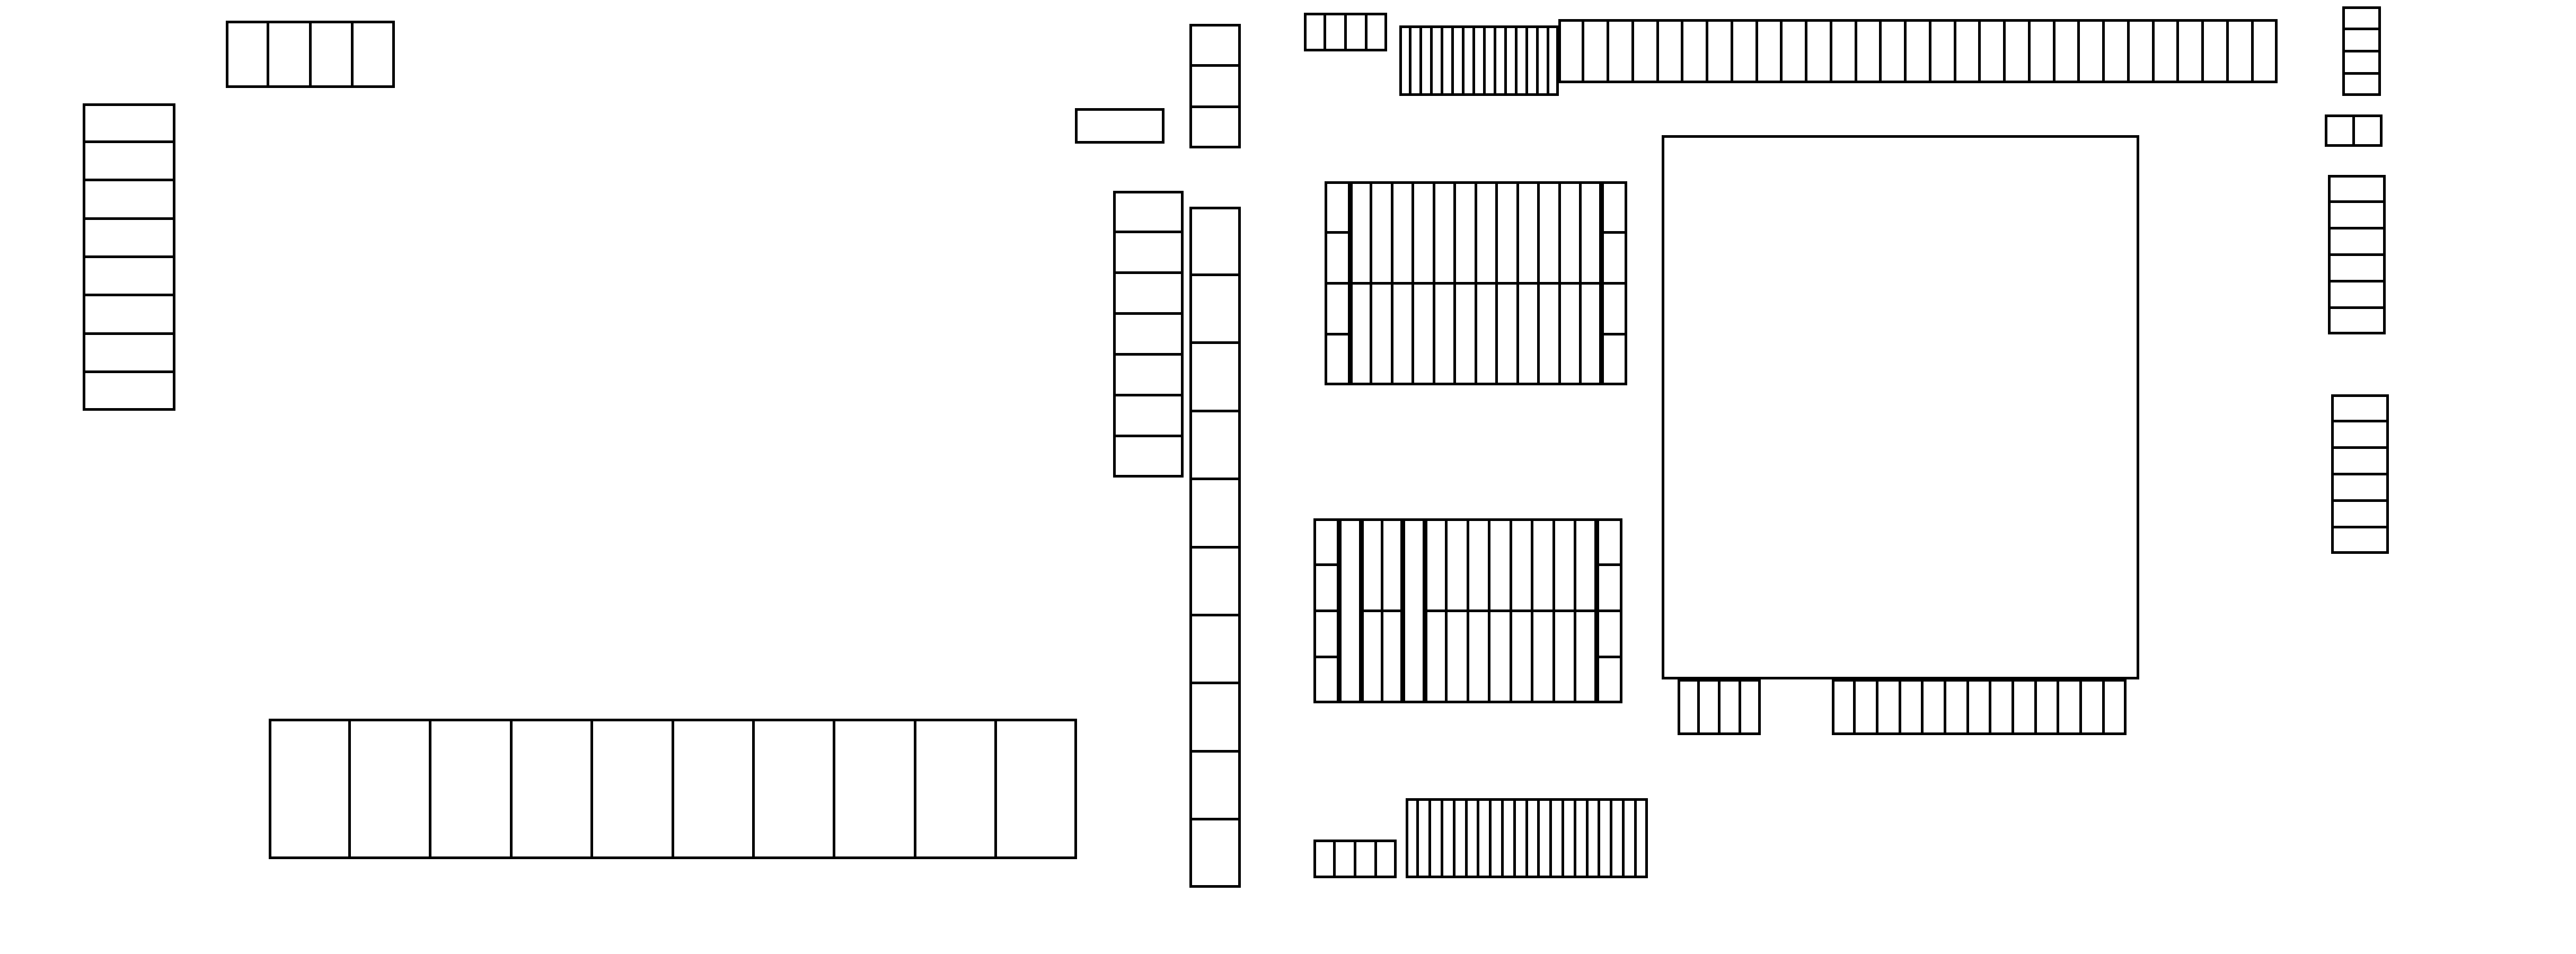
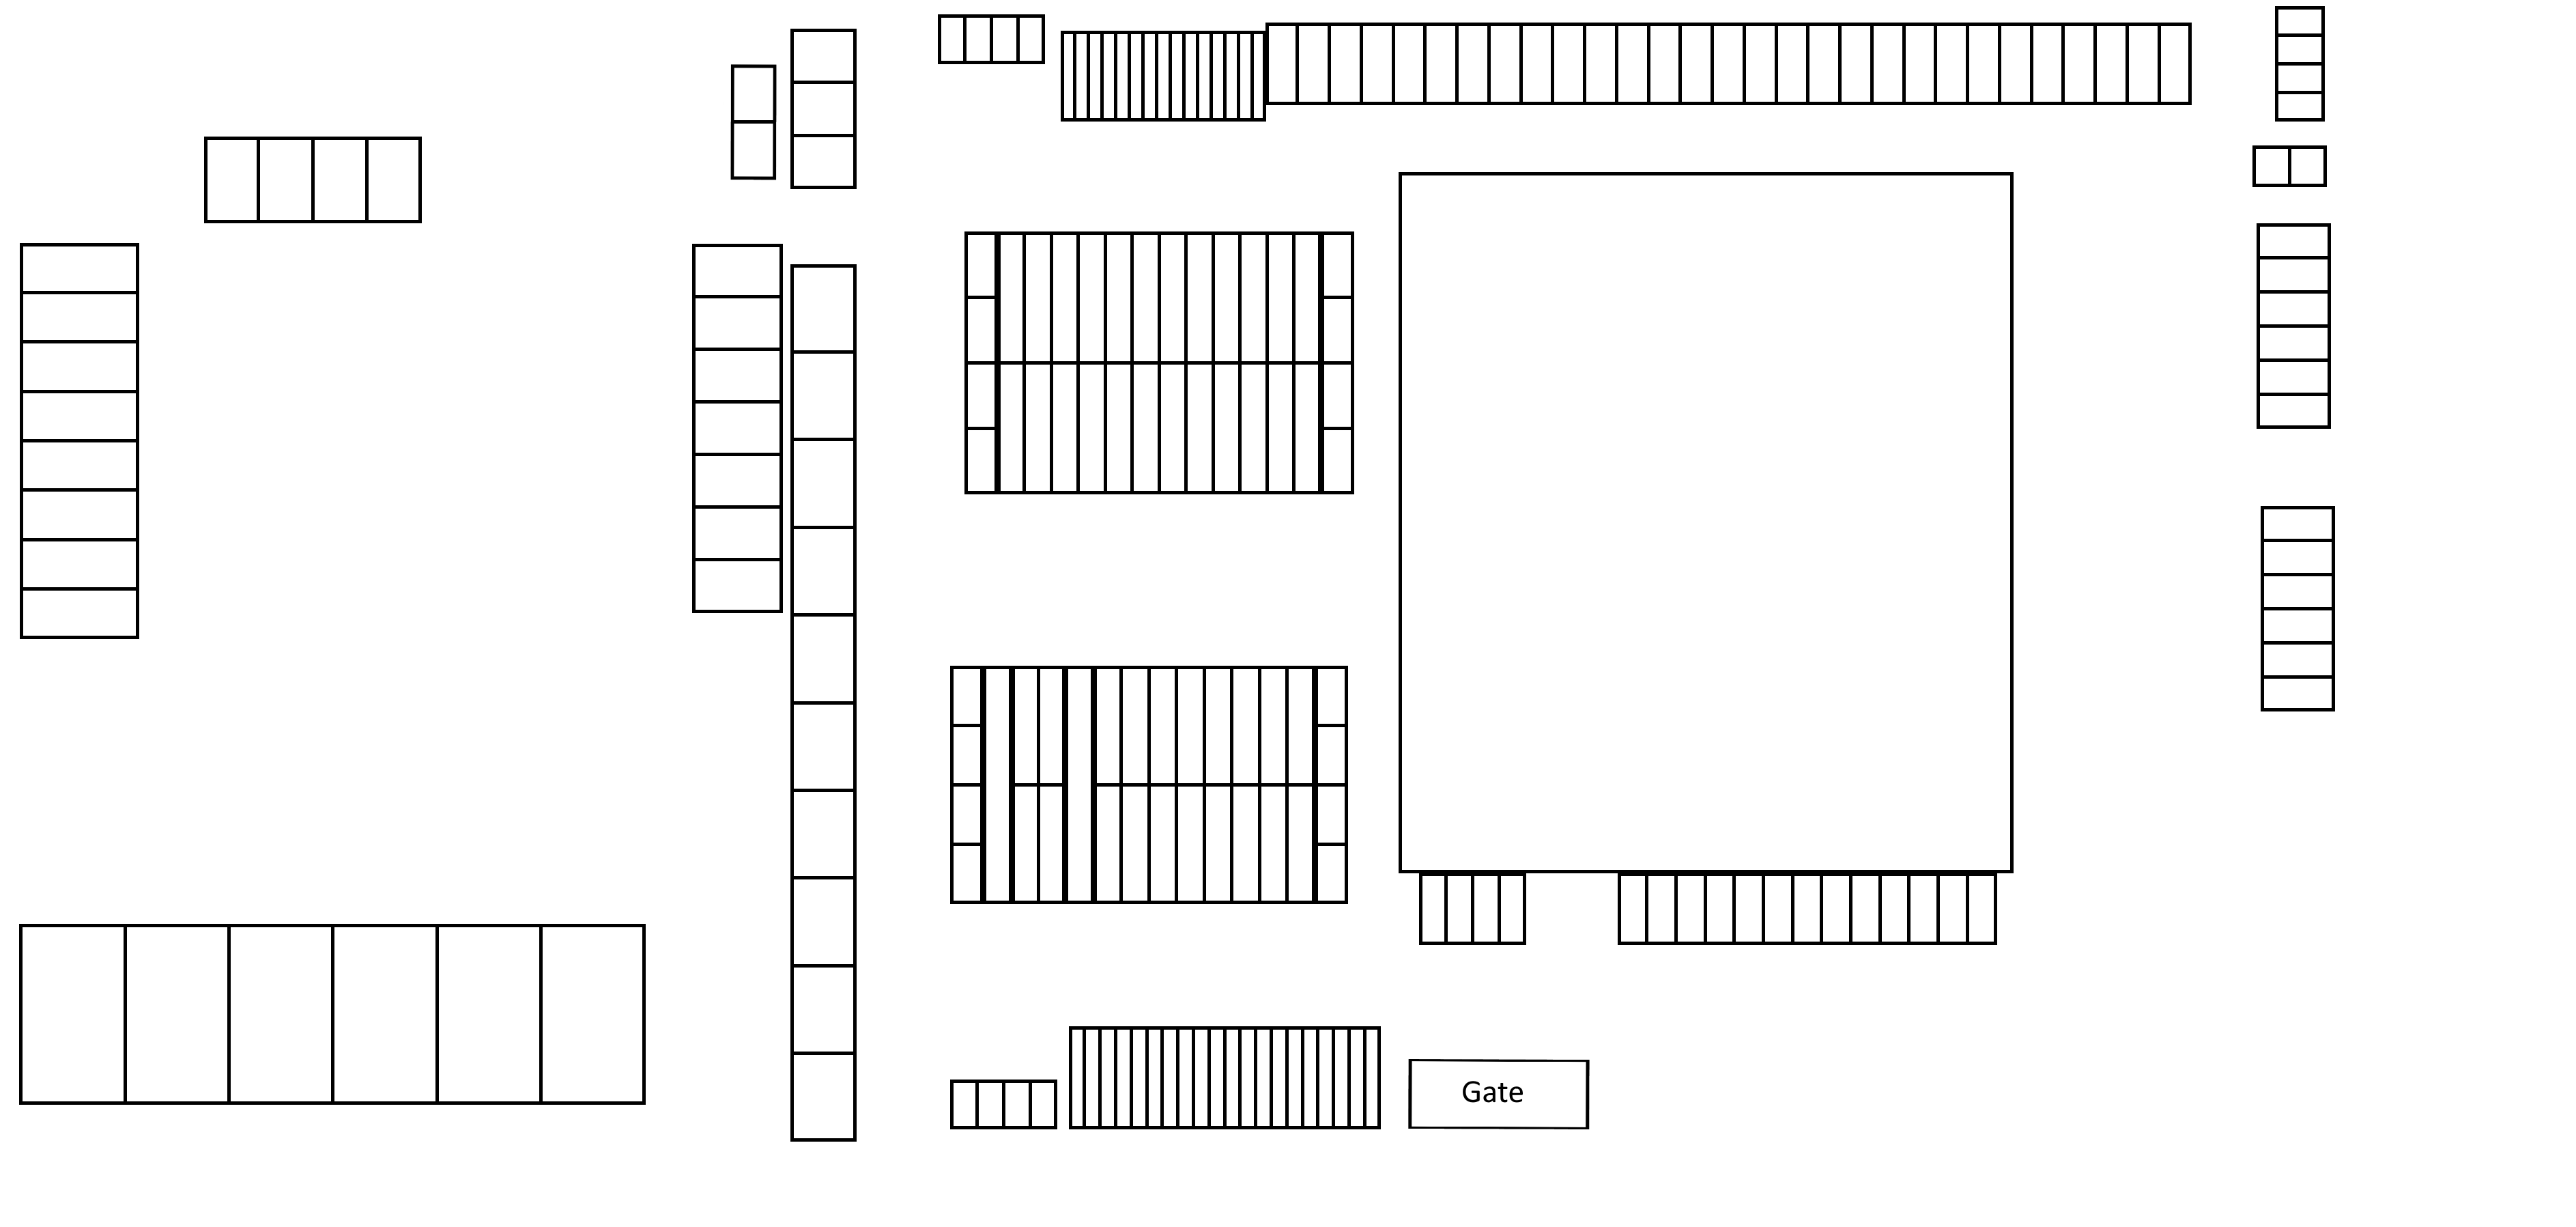
final updates

diff --git a/yard1-supabase.js b/yard1-supabase.js
@@ -13,6 +13,7 @@
     const activeYardName = document.querySelector('#activeYardName');
     const planImage = document.querySelector('#planImage');
     const plan = document.querySelector('#plan');
+    const containerTooltip = document.querySelector('#containerTooltip');
     const searchInput = document.querySelector('#searchInput');
     const statusFilter = document.querySelector('#statusFilter');
     const sizeFilter = document.querySelector('#sizeFilter');
@@ -305,11 +306,12 @@
         displayWidth: 'min(1400px, 100%)',
         warehouseImage: {
           image: 'hanley-removals-container.png',
-          x: 3138,
-          y: 259,
-          width: 900,
-          height: 1022
+          x: 2639,
+          y: 256,
+          width: 1158,
+          height: 1024
         },
+        gates: [{ x: 2655, y: 1554, width: 341, height: 101 }],
         containers: NEWTOWN_CONTAINERS
       },
       wicklowA: {
@@ -319,6 +321,7 @@
         width: 1293,
         height: 889,
         displayWidth: 'min(980px, 100%)',
+        gates: [{ x: 979, y: 793, width: 154, height: 64 }],
         containers: WICKLOW_A_CONTAINERS
       },
       wicklowB: {
@@ -328,6 +331,7 @@
         width: 1293,
         height: 889,
         displayWidth: 'min(980px, 100%)',
+        gates: [{ x: 173, y: 784, width: 202, height: 72 }],
         containers: WICKLOW_B_CONTAINERS
       }
     };
@@ -337,7 +341,19 @@
     }
 
     function getContainers() {
-      return getCurrentYard().containers;
+      const yard = getCurrentYard();
+      return yard.containers.filter((container) => !isInsideGate(container, yard.gates || []));
+    }
+
+    function isInsideGate(container, gates) {
+      const centerX = container.x + (container.width / 2);
+      const centerY = container.y + (container.height / 2);
+      return gates.some((gate) => (
+        centerX >= gate.x &&
+        centerX <= gate.x + gate.width &&
+        centerY >= gate.y &&
+        centerY <= gate.y + gate.height
+      ));
     }
 
     function toDbStatus(status) {
@@ -369,6 +385,31 @@
 
     function containerName(id) {
       return state[id]?.name || id;
+    }
+
+    function positionContainerTooltip(clientX, clientY) {
+      if (!containerTooltip || containerTooltip.hidden) return;
+
+      const margin = 12;
+      const offset = 14;
+      const maxLeft = window.innerWidth - containerTooltip.offsetWidth - margin;
+      const maxTop = window.innerHeight - containerTooltip.offsetHeight - margin;
+      containerTooltip.style.left = `${Math.max(margin, Math.min(clientX + offset, maxLeft))}px`;
+      containerTooltip.style.top = `${Math.max(margin, Math.min(clientY + offset, maxTop))}px`;
+    }
+
+    function showContainerTooltip(id, clientX, clientY) {
+      const item = state[id];
+      if (!containerTooltip || !item) return;
+
+      containerTooltip.querySelector('strong').textContent = containerName(id);
+      containerTooltip.querySelector('span').textContent = `${item.size}ft container`;
+      containerTooltip.hidden = false;
+      positionContainerTooltip(clientX, clientY);
+    }
+
+    function hideContainerTooltip() {
+      if (containerTooltip) containerTooltip.hidden = true;
     }
 
     function staffName(id) {
@@ -856,6 +897,17 @@
         overlay.append(warehouseImage);
       }
 
+      (yard.gates || []).forEach((gate) => {
+        const gateFeature = document.createElementNS('http://www.w3.org/2000/svg', 'rect');
+        gateFeature.setAttribute('x', gate.x);
+        gateFeature.setAttribute('y', gate.y);
+        gateFeature.setAttribute('width', gate.width);
+        gateFeature.setAttribute('height', gate.height);
+        gateFeature.classList.add('gate-feature');
+        gateFeature.setAttribute('aria-label', 'Gate');
+        overlay.append(gateFeature);
+      });
+
       getContainers().forEach((container) => {
         const item = state[container.id];
         const rect = document.createElementNS('http://www.w3.org/2000/svg', 'rect');
@@ -869,12 +921,24 @@
         rect.classList.add('container-unit', item.status);
         rect.setAttribute('aria-label', `${containerName(container.id)}, ${item.size}ft, ${labelFor(item.status)}`);
         rect.addEventListener('click', () => setSelected(container.id));
+        rect.addEventListener('mouseenter', (event) => {
+          showContainerTooltip(container.id, event.clientX, event.clientY);
+        });
+        rect.addEventListener('mousemove', (event) => {
+          positionContainerTooltip(event.clientX, event.clientY);
+        });
+        rect.addEventListener('mouseleave', hideContainerTooltip);
         rect.addEventListener('keydown', (event) => {
           if (event.key === 'Enter' || event.key === ' ') {
             event.preventDefault();
             setSelected(container.id);
           }
         });
+        rect.addEventListener('focus', () => {
+          const bounds = rect.getBoundingClientRect();
+          showContainerTooltip(container.id, bounds.right, bounds.top);
+        });
+        rect.addEventListener('blur', hideContainerTooltip);
         overlay.append(rect);
 
         const label = document.createElementNS('http://www.w3.org/2000/svg', 'text');

diff --git a/yard1.css b/yard1.css
@@ -213,6 +213,35 @@ button.logout,
   display: block;
 }
 
+.container-tooltip {
+  position: fixed;
+  z-index: 20;
+  display: grid;
+  gap: 2px;
+  min-width: 104px;
+  padding: 7px 9px;
+  border: 1px solid var(--line);
+  border-radius: 6px;
+  background: var(--surface);
+  box-shadow: 0 5px 16px rgba(20, 30, 25, 0.16);
+  color: var(--ink);
+  font-size: 12px;
+  line-height: 1.25;
+  pointer-events: none;
+}
+
+.container-tooltip[hidden] {
+  display: none;
+}
+
+.container-tooltip strong {
+  font-size: 12px;
+}
+
+.container-tooltip span {
+  color: var(--muted);
+}
+
 .container-unit {
   cursor: pointer;
   transition: fill 140ms ease;
@@ -220,6 +249,12 @@ button.logout,
 }
 
 .warehouse-feature {
+  pointer-events: none;
+}
+
+.gate-feature {
+  fill: #f0a248;
+  fill-opacity: 0.42;
   pointer-events: none;
 }
 
@@ -279,12 +314,16 @@ button.logout,
 
 .panel {
   min-width: 0;
+  height: 100vh;
   padding: 16px;
   background: var(--surface);
   border-left: 1px solid var(--line);
   display: flex;
   flex-direction: column;
   gap: 16px;
+  overflow: hidden;
+  position: sticky;
+  top: 0;
 }
 
 .summary {
@@ -414,6 +453,7 @@ button.danger {
 }
 
 .list {
+  flex: 1 1 auto;
   min-height: 0;
   overflow: auto;
   border: 1px solid var(--line);
@@ -486,6 +526,10 @@ button.danger {
   fill: rgba(10, 18, 24, 0.78);
 }
 
+:root[data-theme="dark"] .container-tooltip {
+  box-shadow: 0 5px 16px rgba(0, 0, 0, 0.38);
+}
+
 :root[data-theme="dark"] #planImage {
   filter: invert(1);
   mix-blend-mode: screen;
@@ -512,7 +556,15 @@ button.danger {
   }
 
   .panel {
+    height: auto;
     border-left: 0;
     border-top: 1px solid var(--line);
+    overflow: visible;
+    position: static;
+  }
+
+  .list {
+    flex: none;
+    max-height: 420px;
   }
 }

diff --git a/yard1.html b/yard1.html
@@ -39,6 +39,10 @@
           <img id="planImage" src="warehouse.png" alt="Newtown Yard layout">
           <svg id="overlay" viewBox="0 0 4860 1800" role="img" aria-label="Interactive container positions"></svg>
         </div>
+        <div id="containerTooltip" class="container-tooltip" role="tooltip" hidden>
+          <strong></strong>
+          <span></span>
+        </div>
       </div>
     </section>
 